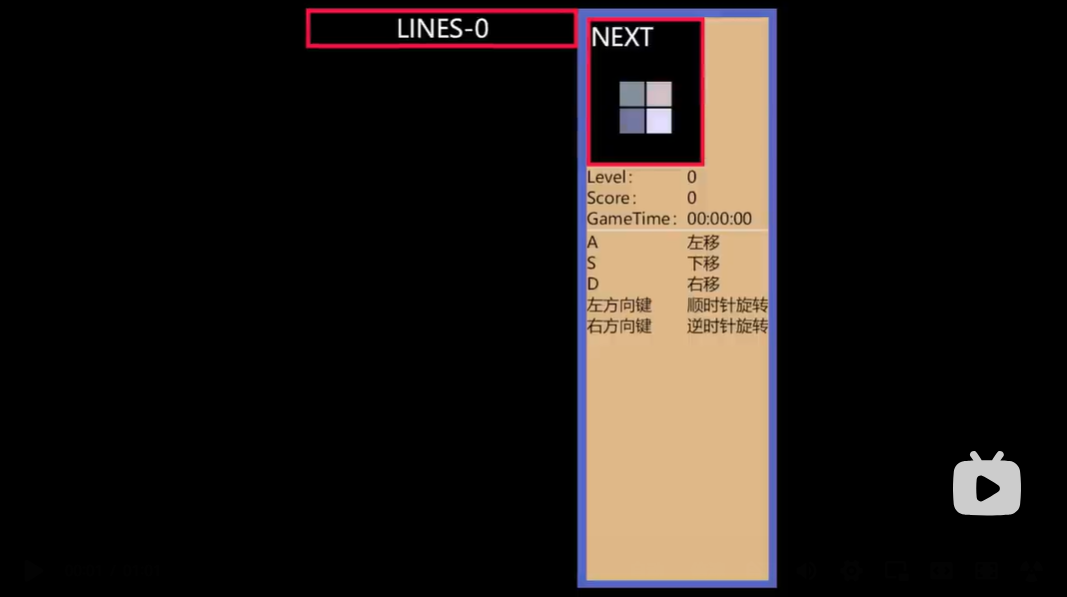
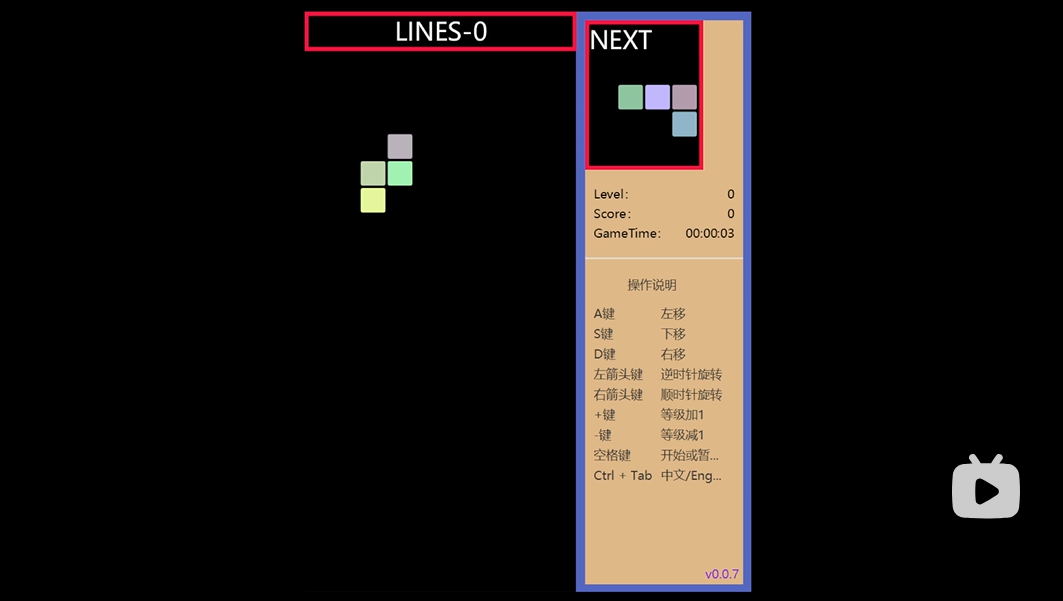
俄罗斯方块v0.0.7 1、添加等级音效 2、修改md_data

Changed region(s): [[0.2794, 0.0, 0.7451, 0.995], [0.8692, 0.7538, 0.9624, 0.8744], [0.3415, 0.2111, 0.4036, 0.3618]]

diff --git a/tetris/src/main/java/xyz/xuminghai/tetris/game/GameWorld.java b/tetris/src/main/java/xyz/xuminghai/tetris/game/GameWorld.java
@@ -674,6 +674,8 @@ public final class GameWorld {
      */
     int customizeLevel;
 
+    private final int maxCustomizeLevel = 30;
+
     /**
      * 等级
      */
@@ -681,8 +683,8 @@ public final class GameWorld {
 
         @Override
         protected void invalidated() {
-            if (get() < 30) {
-                gameTimeLine.setPulse(GameTimeLine.DEFAULT_PULSE - super.get() * 10);
+            if (get() < maxCustomizeLevel) {
+                gameTimeLine.setPulse(GameTimeLine.DEFAULT_PULSE - super.get() * 14);
             }
         }
     };
@@ -826,7 +828,9 @@ public final class GameWorld {
     private boolean gameActive;
     private Robot robot;
     private MediaPlayer bgmMediaPlayer;
-    private AudioClip clearRowAudioClip, moveAudioClip, rotateAudioClip, gameOverAudioClip;
+    private AudioClip clearRowAudioClip, moveAudioClip,
+            rotateAudioClip, gameOverAudioClip,
+            levelUpAudioClip, levelDownAudioClip;
 
     public boolean getGameActive() {
         return gameActive;
@@ -873,6 +877,20 @@ public final class GameWorld {
             gameOverAudioClip = new AudioClip(Objects.requireNonNull(GameWorld.class.getResource("/audio/game_over.mp3")).toExternalForm());
         }
         return gameOverAudioClip;
+    }
+
+    AudioClip getLevelUpAudioClip() {
+        if (levelUpAudioClip == null) {
+            levelUpAudioClip = new AudioClip(Objects.requireNonNull(GameWorld.class.getResource("/audio/level_up.mp3")).toExternalForm());
+        }
+        return levelUpAudioClip;
+    }
+
+    AudioClip getLevelDownAudioClip() {
+        if (levelDownAudioClip == null) {
+            levelDownAudioClip = new AudioClip(Objects.requireNonNull(GameWorld.class.getResource("/audio/level_down.mp3")).toExternalForm());
+        }
+        return levelDownAudioClip;
     }
 
     public int getRows() {
@@ -1099,7 +1117,8 @@ public final class GameWorld {
      * 等级加1
      */
     public void levelPlus() {
-        if (customizeLevel < 30) {
+        if (customizeLevel < maxCustomizeLevel) {
+            getLevelUpAudioClip().play();
             final int levelValue = level.get() - customizeLevel++;
             level.set(customizeLevel + levelValue);
         }
@@ -1110,6 +1129,7 @@ public final class GameWorld {
      */
     public void levelMinus() {
         if (customizeLevel > 0) {
+            getLevelDownAudioClip().play();
             final int levelValue = level.get() - customizeLevel--;
             level.set(customizeLevel + levelValue);
         }

diff --git a/tetris/src/main/java/xyz/xuminghai/tetris/util/Version.java b/tetris/src/main/java/xyz/xuminghai/tetris/util/Version.java
@@ -646,8 +646,11 @@ import java.util.regex.Pattern;
  */
 public final class Version {
 
-    public static final String VERSION = "v0.0.6";
-    private static final Pattern VERSION_PATTERN = Pattern.compile("^v(\\d+)\\.(\\d+)\\.(\\d)");
+    /**
+     * 版本规制，采用十进制，逢十进小数点前一位
+     */
+    public static final String VERSION = "v0.0.7";
+    private static final Pattern VERSION_PATTERN = Pattern.compile("^v(\\d+)\\.(\\d)\\.(\\d)");
 
     public static final String RELEASE_URI = "https://gitee.com/xuMingHai1/game-collection/releases";
 

diff --git a/tetris/README.md b/tetris/README.md
@@ -2,8 +2,17 @@
 
 > 哔哩哔哩在线视频
 
-[![img.png](md_data/img.png)](https://www.bilibili.com/video/BV1Yx4y1S7dK/)
+[![img.png](md_data/img.png)](https://www.bilibili.com/video/BV1Yx4y1S7dK)
 
 > 游戏截图
 
 ![img1.png](md_data/img1.png)
+
+## 原生可执行文件
+
+[发布地址](https://gitee.com/xuMingHai1/game-collection/releases)
+
+本项目是开源的，不会写入和创建任何文件，和数据。
+绿色软件，删除后不会有任何卸载残留
+
+> **警告：** 因为没有代码数字签名，在运行时会出现警告
